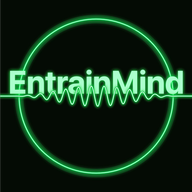
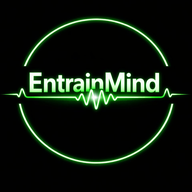
Novos ícones PWA, fix botão timer, fix presets

Changed region(s): [[0.0, 0.0, 1.0, 1.0]]

diff --git a/sw.js b/sw.js
@@ -1,4 +1,4 @@
-const CACHE = 'entrainmind-v3';
+const CACHE = 'entrainmind-v4';
 const ASSETS = [
   './entrainmind.html',
   './manual.html',
